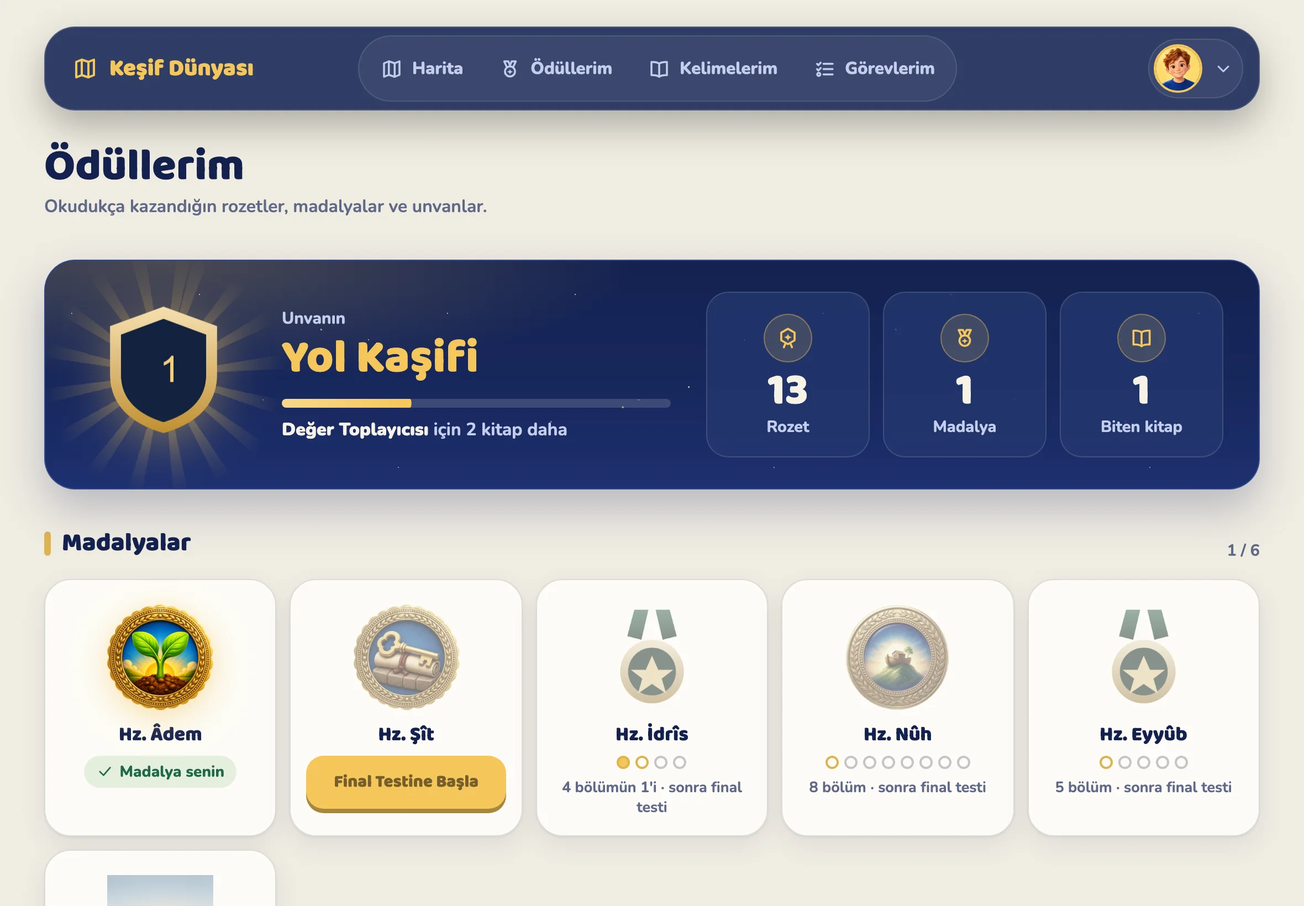
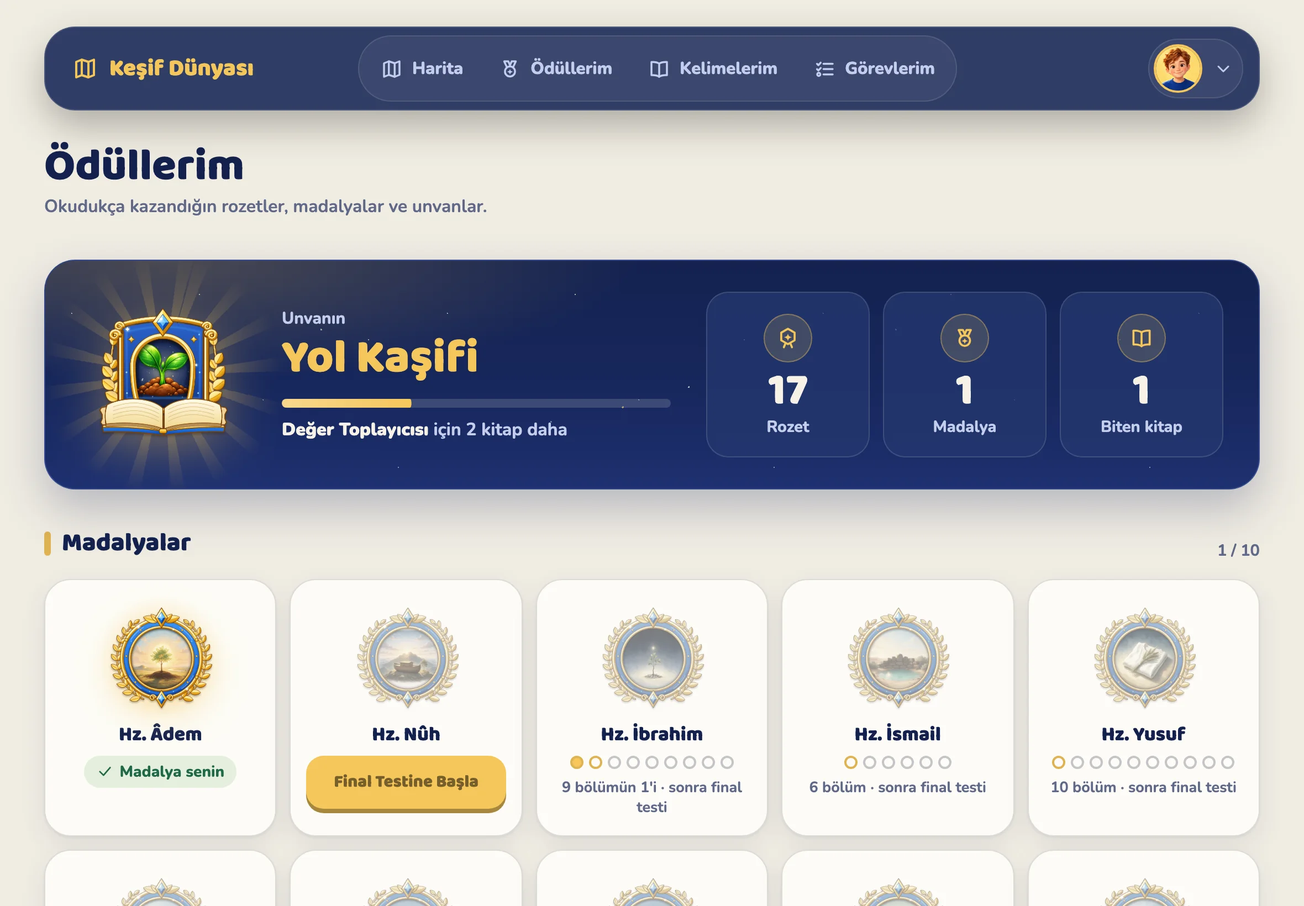
Tanıtım sayfası yalnız yayındaki kitapları anlatır (lansman 12 kitap)
Sayılar, Kütüphane listesi, raf ve madalya görselleri ile unvan kartı
katalogSayilari.ts üzerinden yalnız published kitaplardan türer; Sâlih ve
Dâvûd yayına girince tanıtım kendiliğinden güncellenir. Şît ve İdrîs
görselleri kalktı. Yolun devamı tarih ve sayı vermeden tek notla anılır;
yeni kitapların alıcılara ek ödemesiz açıldığı paket kartında ve SSS'de
yazılı (KARAR 21 Eki 2026 — Hasan). Tanıtım ekran görüntüleri yenilendi.

diff --git a/src/components/tanitim/Kutuphane.tsx b/src/components/tanitim/Kutuphane.tsx
@@ -1,40 +1,27 @@
 import Image from "next/image";
-import { atlasRegions } from "../../data/atlasCatalog";
-import { KATALOG_SAYILARI } from "../../data/katalogSayilari";
+import { KATALOG_SAYILARI, YAYINDAKI_GRUPLAR, YOLUN_DEVAMI, yayindakilerdenSec } from "../../data/katalogSayilari";
 import { kitapKapagi } from "../../lib/varlikYollari";
+import { Ikon } from "../ui/Ikon";
 import { Belir, SiraliBelir, SiraliOge } from "./hareket/Belir";
 import hareket from "./hareket/hareket.module.css";
 import { BolumBasligi, Kap } from "./ortak";
 import styles from "./tanitim.module.css";
 
 /**
- * Kitap listesi elle yazılmaz; `atlasCatalog.ts`'ten okunur. Arayüzde
- * bölgeler gösterilmediği için (PROJE-MODELI 3.10.1) burada da bölge adı yok;
- * velinin anlayacağı üç grup kullanılır.
+ * Kitap listesi elle yazılmaz; yalnız yayındaki kitaplar `katalogSayilari.ts`
+ * üzerinden okunur (REVİZE 21 Eki 2026 — lansman 12 kitap).
  *
- * Raftaki kapaklar: kapak görseli hazır olan kitaplar. Yeni kapak geldikçe
- * `RAF` listesine eklenir.
+ * Raf: kapak tasarımına değil kitaba göre seçilir (KARAR 21 Eki 2026 — Hasan;
+ * kapaklar sonra aynı adla yenilenir). İlk insan Hz. Âdem, ulü'l-azm
+ * peygamberlerden Hz. Nûh, Hz. İbrahim, Hz. Musa, Hz. Îsâ ve çocukların en
+ * çok tanıdığı kıssalardan Hz. Yusuf, Hz. Süleyman. Listeden yayında
+ * olmayan çıkar, yerine yayındaki başka kitap girer; raf katalog sırasıyla dizilir.
  */
-const RAF = ["adem", "sit", "idris", "nuh", "hud", "salih", "musa"];
-
-const GRUPLAR = [
-  { ad: "Peygamberler", bolgeler: ["ilk-izler", "bereketli-aile", "sabir-cesaret", "hikmet-saraylari", "umut-isiklari"] },
-  { ad: "Sevgili Peygamberimiz Hz. Muhammed (s.a.v.)", bolgeler: ["rahmet-yolculugu"] },
-  { ad: "Dört Büyük Halife", bolgeler: ["dort-dost"] },
-];
+const RAF = ["adem", "nuh", "ibrahim", "yusuf", "musa", "suleyman", "isa"];
 
 export function Kutuphane() {
-  const tumKitaplar = atlasRegions.flatMap((bolge) => bolge.books);
-  const raf = RAF.map((anahtar) => tumKitaplar.find((kitap) => kitap.key === anahtar)).filter(
-    (kitap) => kitap !== undefined,
-  );
-  const gruplar = GRUPLAR.map((grup) => ({
-    ad: grup.ad,
-    kitaplar: atlasRegions
-      .filter((bolge) => grup.bolgeler.includes(bolge.id))
-      .flatMap((bolge) => bolge.books)
-      .sort((a, b) => a.order - b.order),
-  }));
+  const raf = yayindakilerdenSec(RAF, RAF.length).sort((a, b) => a.order - b.order);
+  const tekGrup = YAYINDAKI_GRUPLAR.length === 1;
 
   return (
     <section id="kutuphane" aria-labelledby="kutuphane-baslik" className="tema-veli scroll-mt-16 bg-zemin py-20 lg:py-28">
@@ -43,7 +30,7 @@ export function Kutuphane() {
           id="kutuphane-baslik"
           ust="Kütüphane"
           baslik={`${KATALOG_SAYILARI.kitap} kitap, ${KATALOG_SAYILARI.bolum} bölüm, tek bir yolculuk`}
-          aciklama="Hz. Âdem'den başlayan yol, Sevgili Peygamberimiz'in hayatı ve Dört Büyük Halife ile tamamlanır. Kitaplar tarih sırasıyla tek bir rotada dizilir; çocuk dilediği kitaptan başlayabilir."
+          aciklama="Yolculuk Hz. Âdem'le başlar; kitaplar tarih sırasıyla tek bir rotada dizilir. Çocuk dilediği kitaptan başlayabilir."
         />
       </Kap>
 
@@ -86,13 +73,13 @@ export function Kutuphane() {
             aralik={0.15}
             oran={0.1}
           >
-            {gruplar.map((grup, i) => (
-              <SiraliOge key={grup.ad} className={i === 0 ? "lg:col-span-6" : "lg:col-span-3"}>
+            {YAYINDAKI_GRUPLAR.map((grup, i) => (
+              <SiraliOge key={grup.ad} className={tekGrup ? "lg:col-span-12" : i === 0 ? "lg:col-span-6" : "lg:col-span-3"}>
                 <h3 className="border-b border-cizgi pb-3 font-baslik text-[1.05rem] font-bold text-murekkep">
                   {grup.ad}
                   <span className="ml-2 font-semibold text-vurgu">{grup.kitaplar.length} kitap</span>
                 </h3>
-                <ol className={`mt-4 gap-x-8 ${i === 0 ? "sm:columns-2" : ""}`}>
+                <ol className={`mt-4 gap-x-8 ${tekGrup ? "sm:columns-2 lg:columns-3" : i === 0 ? "sm:columns-2" : ""}`}>
                   {grup.kitaplar.map((kitap) => (
                     <li
                       key={kitap.key}
@@ -109,6 +96,19 @@ export function Kutuphane() {
                 </ol>
               </SiraliOge>
             ))}
+            {/* Yolun devamı: tarih ve sayı vermez; bütün kitaplar yayına girince kendiliğinden kalkar. */}
+            {YOLUN_DEVAMI ? (
+              <SiraliOge className="flex gap-4 rounded-2xl bg-zemin p-5 sm:p-6 lg:col-span-12">
+                {/* Telefonda ikon gizlenir: metin dar bir sütuna sıkışmasın. */}
+                <span className="hidden h-11 w-11 shrink-0 items-center justify-center rounded-full bg-vurgu-yumusak text-vurgu sm:flex">
+                  <Ikon ad="kitap" boyut={22} />
+                </span>
+                <div>
+                  <p className="font-baslik text-[1.05rem] font-bold text-murekkep">Yolun devamı hazırlanıyor</p>
+                  <p className="mt-1 font-govde leading-relaxed text-murekkep-soluk">{YOLUN_DEVAMI}</p>
+                </div>
+              </SiraliOge>
+            ) : null}
           </SiraliBelir>
         </Belir>
       </Kap>

diff --git a/src/data/katalogSayilari.ts b/src/data/katalogSayilari.ts
@@ -1,21 +1,96 @@
-import { atlasRegions } from "./atlasCatalog";
+import { atlasRegions, type AtlasCatalogBook } from "./atlasCatalog";
 
 /**
- * Tanıtım sayfasındaki sayılar (kitap, bölüm, rozet, madalya) elle yazılmaz;
- * katalogdan türetilir. Katalog belgesi değişirse (Hasan onayıyla) tanıtım
- * metinleri kendiliğinden güncellenir.
+ * Tanıtım sayfasının katalog verisi: sayılar (kitap, bölüm, rozet, madalya),
+ * raf/ödül görsellerinin seçimi ve "yolun devamı" notu. Hiçbiri elle yazılmaz.
  *
- * Tanıtım sayfası sitenin TAM hâlini anlatır (KARAR 15 Eki 2026 — Hasan: site
- * bütün kitaplar bitmeden yayına açılmayacak); bu yüzden yayın durumuna
- * (`availability`) bakılmaz.
+ * Tanıtım yalnız YAYINDAKİ kitapları anlatır (REVİZE 21 Eki 2026 — Hasan:
+ * lansman 12 kitapla; 15 Eki'deki "sitenin tam hâli anlatılır" kararı kalktı).
+ * Bir kitap `atlasCatalog.ts`'te `published` olunca tanıtım kendiliğinden
+ * güncellenir; `hidden` ve `preparing` kitaplar sayılmaz, görseli seçilmez.
+ *
+ * `derive.ts:yayindakiKitaplar()` burada kullanılmaz: o, bütün bölüm
+ * metinleriyle `books.ts`'i içeri alır; bu dosya ise `paketler.ts` üzerinden
+ * yönetim ekranının tarayıcı paketine de giriyor. Katalogdaki bölüm sayısı
+ * içerikle aynı tutulur (CLAUDE.md "Yeni kitap eklerken" listesi).
  */
-const tumKitaplar = atlasRegions.flatMap((bolge) => bolge.books);
+export const YAYINDAKI_KITAPLAR: AtlasCatalogBook[] = atlasRegions
+  .flatMap((bolge) => bolge.books)
+  .filter((kitap) => kitap.availability === "published")
+  .sort((a, b) => a.order - b.order);
+
+const bolumSayisi = YAYINDAKI_KITAPLAR.reduce((toplam, kitap) => toplam + kitap.chapterCount, 0);
 
 export const KATALOG_SAYILARI = {
-  kitap: tumKitaplar.length,
-  bolum: tumKitaplar.reduce((toplam, kitap) => toplam + kitap.chapterCount, 0),
+  kitap: YAYINDAKI_KITAPLAR.length,
+  bolum: bolumSayisi,
   /** Her bölümün kendi rozeti vardır. */
-  rozet: tumKitaplar.reduce((toplam, kitap) => toplam + kitap.chapterCount, 0),
+  rozet: bolumSayisi,
   /** Her kitabın kendi madalyası vardır. */
-  madalya: tumKitaplar.length,
+  madalya: YAYINDAKI_KITAPLAR.length,
 };
+
+/**
+ * Tercih listesindeki kitaplardan yalnız yayında olanları, tercih sırasıyla
+ * verir; eksik kalırsa yayındaki diğer kitaplarla `adet`e tamamlar. Gizlenen
+ * ya da henüz yayında olmayan bir kitabın görseli böylece tanıtıma giremez.
+ */
+export function yayindakilerdenSec(tercih: string[], adet: number): AtlasCatalogBook[] {
+  const secilen = tercih.flatMap((anahtar) => YAYINDAKI_KITAPLAR.filter((kitap) => kitap.key === anahtar));
+  const diger = YAYINDAKI_KITAPLAR.filter((kitap) => !secilen.includes(kitap));
+  return [...secilen, ...diger].slice(0, adet);
+}
+
+/**
+ * Velinin anlayacağı üç grup. Arayüzde bölgeler gösterilmediği için
+ * (PROJE-MODELI 3.10.1) tanıtımda da bölge adı yok. `devami`: grupta yayında
+ * olmayan kitap varken "yolun devamı" notunda kullanılan ad.
+ */
+const GRUPLAR = [
+  {
+    ad: "Peygamberler",
+    devami: "diğer peygamberlerin kıssaları",
+    bolgeler: ["ilk-izler", "bereketli-aile", "sabir-cesaret", "hikmet-saraylari", "umut-isiklari"],
+  },
+  {
+    ad: "Sevgili Peygamberimiz Hz. Muhammed (s.a.v.)",
+    devami: "Sevgili Peygamberimiz Hz. Muhammed'in (s.a.v.) hayatı",
+    bolgeler: ["rahmet-yolculugu"],
+  },
+  { ad: "Dört Büyük Halife", devami: "Dört Büyük Halife kitapları", bolgeler: ["dort-dost"] },
+];
+
+const gruplar = GRUPLAR.map((grup) => {
+  const kitaplar = atlasRegions
+    .filter((bolge) => grup.bolgeler.includes(bolge.id))
+    .flatMap((bolge) => bolge.books)
+    .sort((a, b) => a.order - b.order);
+  return {
+    ad: grup.ad,
+    devami: grup.devami,
+    yayindakiler: kitaplar.filter((kitap) => kitap.availability === "published"),
+    bekleyenVar: kitaplar.some((kitap) => kitap.availability !== "published"),
+  };
+});
+
+/** Kütüphane listesi: yalnız yayında kitabı olan gruplar, katalog sırasıyla. */
+export const YAYINDAKI_GRUPLAR = gruplar
+  .filter((grup) => grup.yayindakiler.length > 0)
+  .map((grup) => ({ ad: grup.ad, kitaplar: grup.yayindakiler }));
+
+function listele(parcalar: string[]) {
+  if (parcalar.length < 2) return parcalar.join("");
+  return `${parcalar.slice(0, -1).join(", ")} ve ${parcalar[parcalar.length - 1]}`;
+}
+
+/**
+ * "Yolun devamı" cümlesi — Kütüphane notu ve SSS aynı metni kullanır. Tarih
+ * ve sayı vermez (çocuk ana ekranındaki "Yolun devamı hazırlanıyor" kartıyla
+ * aynı dil). Bütün kitaplar yayına girince `null` olur ve not kalkar.
+ */
+const hazirlananlar = gruplar.filter((grup) => grup.bekleyenVar).map((grup) => grup.devami);
+const devamListesi = listele(hazirlananlar);
+export const YOLUN_DEVAMI =
+  hazirlananlar.length > 0
+    ? `${devamListesi.charAt(0).toLocaleUpperCase("tr-TR")}${devamListesi.slice(1)} üzerinde çalışıyoruz. Her kitap kaynak denetiminden geçtikten sonra yayına girer.`
+    : null;

diff --git a/src/components/tanitim/Oduller.tsx b/src/components/tanitim/Oduller.tsx
@@ -1,6 +1,6 @@
 import Image, { getImageProps } from "next/image";
 import type { CSSProperties, ReactNode } from "react";
-import { KATALOG_SAYILARI } from "../../data/katalogSayilari";
+import { KATALOG_SAYILARI, yayindakilerdenSec } from "../../data/katalogSayilari";
 import { UNVAN_ESIKLERI, unvanAnahtari } from "../../lib/derive";
 import { madalyaGorseli, rozetGorseli, unvanGorseli } from "../../lib/varlikYollari";
 import { SiraliBelir, SiraliOge } from "./hareket/Belir";
@@ -23,10 +23,18 @@ function ParlayanGorsel({ src, boyut, className = "" }: { src: string; boyut: st
   );
 }
 
-/** Terminoloji sabit: yalnız ROZET · MADALYA · UNVAN (PROJE-MODELI Bölüm 2). */
+/** Madalya kartı: ortadaki (vurgulu) Hz. Âdem; yayında olmayan kitap seçilmez. */
+const MADALYA_VITRINI = ["nuh", "adem", "ibrahim"];
+
+/**
+ * Terminoloji sabit: yalnız ROZET · MADALYA · UNVAN (PROJE-MODELI Bölüm 2).
+ * Unvan kartı yalnız yayındaki kitaplarla kazanılabilen unvanları anlatır;
+ * daha fazla kitap isteyen unvanlar, kitaplar yayına girdikçe kendiliğinden eklenir.
+ */
 export function Oduller() {
-  const ilkUnvan = UNVAN_ESIKLERI[0].unvan;
-  const sonUnvan = UNVAN_ESIKLERI[UNVAN_ESIKLERI.length - 1].unvan;
+  const kazanilabilir = UNVAN_ESIKLERI.filter((esik) => esik.kitap <= KATALOG_SAYILARI.kitap);
+  const ilkUnvan = kazanilabilir[0].unvan;
+  const sonUnvan = kazanilabilir[kazanilabilir.length - 1].unvan;
 
   const kartlar: { ad: string; sayi: string; metin: string; gorsel: ReactNode }[] = [
     {
@@ -55,13 +63,13 @@ export function Oduller() {
         "Kitap ve Büyük Final Testi bitince kazanılır; her kitabın madalyası farklıdır. Testteki doğru sayısı madalyanın şartı değildir.",
       gorsel: (
         <div className="relative flex h-full items-center justify-center gap-2">
-          {["sit", "adem", "nuh"].map((kitap, i) => (
+          {yayindakilerdenSec(MADALYA_VITRINI, MADALYA_VITRINI.length).map((kitap, i) => (
             <div
-              key={kitap}
+              key={kitap.key}
               className={`${hareket.sallan} ${i === 1 ? "w-[42%]" : "w-[30%] opacity-90"}`}
               style={{ "--gecikme": `${-i * 1.7}s` } as CSSProperties}
             >
-              <ParlayanGorsel src={madalyaGorseli(kitap)} boyut="150px" />
+              <ParlayanGorsel src={madalyaGorseli(kitap.key)} boyut="150px" />
             </div>
           ))}
         </div>
@@ -69,17 +77,17 @@ export function Oduller() {
     },
     {
       ad: "Unvan",
-      sayi: `${UNVAN_ESIKLERI.length} unvan`,
-      metin: `Puanla değil, okunan kitap sayısıyla yükselir. “${ilkUnvan}” ile başlar, “${sonUnvan}” ile tamamlanır.`,
+      sayi: `${kazanilabilir.length} unvan`,
+      metin: `Puanla değil, okunan kitap sayısıyla yükselir. “${ilkUnvan}” ile başlar; yayındaki kitapların hepsini bitiren çocuk “${sonUnvan}” olur.`,
       gorsel: (
         <div className="relative flex h-full items-end justify-center gap-1">
-          {[1, 4, 8].map((sira, i) => (
+          {kazanilabilir.slice(-3).map((esik, i) => (
             <div
-              key={sira}
+              key={esik.unvan}
               className={`${hareket.unvanBasamagi} ${i === 2 ? "w-[40%]" : i === 1 ? "w-[33%]" : "w-[26%]"}`}
               style={{ "--yukselis": `${-6 - i * 5}px`, "--gecikme": `${i * 70}ms` } as CSSProperties}
             >
-              <ParlayanGorsel src={unvanGorseli(unvanAnahtari(UNVAN_ESIKLERI[sira].unvan))} boyut="150px" />
+              <ParlayanGorsel src={unvanGorseli(unvanAnahtari(esik.unvan))} boyut="150px" />
             </div>
           ))}
         </div>

diff --git a/src/components/tanitim/Sss.tsx b/src/components/tanitim/Sss.tsx
@@ -1,7 +1,7 @@
 import Link from "next/link";
 import type { ReactNode } from "react";
 import { IPTAL_IADE } from "../../data/yasal";
-import { KATALOG_SAYILARI } from "../../data/katalogSayilari";
+import { KATALOG_SAYILARI, YOLUN_DEVAMI } from "../../data/katalogSayilari";
 import { MARKA } from "../../data/marka";
 import { SiraliBelir, SiraliOge } from "./hareket/Belir";
 import hareket from "./hareket/hareket.module.css";
@@ -35,8 +35,17 @@ const SORULAR: { soru: string; cevap: ReactNode }[] = [
   },
   {
     soru: "Bir bölüm ne kadar sürer?",
-    cevap: `Bölümler kısa tutuldu; çoğu tek oturumda, yaklaşık 10–15 dakikada okunur. ${KATALOG_SAYILARI.kitap} kitabın tamamında ${KATALOG_SAYILARI.bolum} bölüm var. Günlük hedef ya da seri olmadığı için çocuk kendi hızında ilerler.`,
+    cevap: `Bölümler kısa tutuldu; çoğu tek oturumda, yaklaşık 10–15 dakikada okunur. Yayındaki ${KATALOG_SAYILARI.kitap} kitapta toplam ${KATALOG_SAYILARI.bolum} bölüm var. Günlük hedef ya da seri olmadığı için çocuk kendi hızında ilerler.`,
   },
+  // Bütün kitaplar yayına girince soru kendiliğinden kalkar (YOLUN_DEVAMI null olur).
+  ...(YOLUN_DEVAMI
+    ? [
+        {
+          soru: "Yeni kitaplar eklenecek mi?",
+          cevap: `Evet. ${YOLUN_DEVAMI} Bu yüzden tarih vermiyoruz. Yayına giren her kitap, hesabınızda ek ödeme olmadan açılır.`,
+        },
+      ]
+    : []),
   {
     soru: "Abonelik mi, tek ödeme mi?",
     cevap:

diff --git a/app/(tanitim)/page.tsx b/app/(tanitim)/page.tsx
@@ -13,7 +13,7 @@ import { VeliPaneli } from "../../src/components/tanitim/VeliPaneli";
 import { KATALOG_SAYILARI } from "../../src/data/katalogSayilari";
 import { MARKA } from "../../src/data/marka";
 
-const aciklama = `Peygamberlerin ve Dört Büyük Halife'nin hayatı; ${MARKA.hedefYas} yaş için ${KATALOG_SAYILARI.kitap} kitap ve ${KATALOG_SAYILARI.bolum} sesli bölümde. Reklamsız, puan baskısı olmadan, veli paneliyle.`;
+const aciklama = `Çocuklar için sesli ve etkileşimli peygamber kıssaları: ${MARKA.hedefYas} yaş için ${KATALOG_SAYILARI.kitap} kitap, ${KATALOG_SAYILARI.bolum} sesli bölüm. Reklamsız, puan baskısı olmadan, veli paneliyle.`;
 
 export const metadata: Metadata = {
   title: `${MARKA.ad} | Çocuklar için sesli ve etkileşimli peygamber kıssaları`,
@@ -27,7 +27,8 @@ export const metadata: Metadata = {
 };
 
 /**
- * Tanıtım sayfası (KARAR 15 Eki 2026 — Hasan: sitenin tam hâli anlatılır).
+ * Tanıtım sayfası. Yalnız yayındaki kitapları anlatır (REVİZE 21 Eki 2026 —
+ * Hasan: lansman 12 kitapla; sayılar ve görseller `katalogSayilari.ts`'ten).
  *
  * Akış: gece (çocuğun dünyası) → şafak → krem (velinin paneli) → akşam.
  * Bölüm sırası satış akışını izler: vaat → nasıl çalışır → öne çıkanlar →

diff --git a/src/components/tanitim/Hero.tsx b/src/components/tanitim/Hero.tsx
@@ -80,9 +80,9 @@ export function Hero() {
               className={`${styles.giris} mt-6 max-w-xl text-pretty font-govde text-lg leading-relaxed text-murekkep-soluk sm:text-xl`}
               style={sira(4)}
             >
-              Peygamberlerin ve Dört Büyük Halife&apos;nin hayatı; {KATALOG_SAYILARI.kitap} kitapta, her biri sesli
-              anlatımlı {KATALOG_SAYILARI.bolum} bölümde. Çocuğunuz dinler, okur ve karar verir; siz yolculuğunu veli
-              panelinden izlersiniz.
+              Hz. Âdem&apos;le başlayan {KATALOG_SAYILARI.kitap} kitap; her biri sesli anlatımlı{" "}
+              {KATALOG_SAYILARI.bolum} bölüm. Çocuğunuz dinler, okur ve karar verir; siz yolculuğunu veli panelinden
+              izlersiniz.
             </p>
 
             <div className={`${styles.giris} mt-9 flex flex-col gap-3 sm:flex-row`} style={sira(5)}>

diff --git a/src/data/paketler.ts b/src/data/paketler.ts
@@ -65,7 +65,9 @@ export const PAKETLER: Paket[] = [
 
 /** Bütün paketlerde ortak olanlar — kartlarda aynı liste gösterilir. */
 export const PAKET_ORTAK_OZELLIKLER = [
-  `${KATALOG_SAYILARI.kitap} kitabın tamamı, ${KATALOG_SAYILARI.bolum} bölüm`,
+  `Yayındaki ${KATALOG_SAYILARI.kitap} kitap, ${KATALOG_SAYILARI.bolum} bölüm`,
+  /** KARAR 21 Eki 2026 (Hasan): yayına giren yeni kitap mevcut alıcılara ek ödemesiz açılır. */
+  "Yeni eklenen kitaplar dahil",
   "Her bölümde sesli anlatım",
   "Rozet, madalya ve unvanlar",
   "Veli paneli ve gelişim raporu",

diff --git a/PROJE-MODELI.md b/PROJE-MODELI.md
@@ -2022,7 +2022,7 @@ göstermiyordu: RLS açıktı, kurallar fazla genişti.
 | **6.1** | **İçerik ve Etkileşim Revizyonu (PLANLANDI — Hasan onayı olmadan BAŞLAMAZ):** (a) okuma akışı revizyonu: iki parçalı hikâye + karar noktasında "Sen Olsaydın" + "Seçimini Karşılaştır" + seçimin oturum içinde tutulması (4.1/16); (b) koşullu "Bugüne Taşı" + "Görevi Listeme Ekle / Şimdilik Değil" eylemleri; (c) görev veri altyapısı: `profile_tasks` tablosu + migration + RLS (7.3) — **ekrandan önce altyapı**; (d) çocuk "Görevlerim" ekranı (5.1); (e) veli ana sayfadaki güncel görev alanının yeni görev durumundan beslenmesi; (f) 8 bölümlük yeni Hz. Âdem içeriğinin `books.ts`'e aktarımı | Yeni bölüm akışı + kalıcı görev takibi çalışıyor |
 | **6.2** | **Kaydırmalı Okuma Akışı (ONAY — 26 Temmuz 2026):** (a) karakter bütçesiz akış modeli (`src/components/reader/akis.ts`); (b) `AtlasScrollReader` — tek sayfa kaydırma, satır içi görsel/sözlükçe, "Sen Olsaydın" kapısı, akış içi butonlar; (c) alt gezinme çubuğunun yerine üst ilerleme çubuğu + durak göstergesi (scroll-spy); (d) ~~otomatik "kaldığın yer"~~ — **28 Tem 2026'da kaldırıldı** (kaydırma konumu okunan yeri güvenilir biçimde göstermiyor); (e) Hz. Âdem B1–B8 için görsel yerlerinin açılması + `ICERIK-GORSEL-SICILI.md`. Sayfalı okuyucu (`AtlasReader` + `sayfalar.ts` + sayfa bileşenleri + iki tasarım önizlemesi) yenisi üretimde bir hafta çalıştıktan sonra, **30 Tem 2026'da silindi**; `BookDiscovery` tipleri de hiç kullanılmadığı için kaldırıldı | Bölüm kesintisiz kaydırılarak okunuyor |
 | **7** | Güvenlik/hesap akışı (Bölüm 8). **19 Eki 2026:** 1–2. adım (açık kuralların kapanması, "Kim okuyor?", profil şifresi, veli kapısı, eşleme kodu, kapalı fotoğraf kovası — 3.11) uygulandı. **20 Eki 2026:** 3. adım (şifre belirleme bağlantısı, Şifremi unuttum, çift bildirim koruması, ödeme sisteminden bağımsız çekirdek, elden satış için `/yonetim`) uygulandı; canlı Shopier denemesi ve Supabase/Resend panel ayarları bekliyor | Aktivasyon bağlantısı + PIN |
-| **8** | Landing page'in gerçek özelliklerle güncellenmesi. **Başladı (15 Eki 2026):** eski sayfa silindi, yenisi `app/(tanitim)/` altında (bileşenler `src/components/tanitim/`). **KARAR (Hasan):** site bütün kitaplar ve sesli anlatımlar bitmeden yayına açılmayacağı için tanıtım sitenin TAM hâlini anlatır — kitap/bölüm sayıları yayın durumuna bakmadan katalogdan (`src/data/katalogSayilari.ts`), sesli anlatım öne çıkan özelliktir. **REVİZE 21 Eki 2026 (Hasan): lansman 12 kitapla** (liste: katalog belgesi §11.1); tanıtım sayfasının 35 kitap / 216 bölüm anlatımı bu karara göre yeniden yazılacak (bekliyor). Ürün Bahar Yayıncılık'ın değil, bağımsız bir ürün olarak sunulur. Marka adı ve logo geçicidir (`src/data/marka.ts`, `src/components/marka/Logo.tsx`). Paket modeli öneridir (tek ödeme, süre sınırı yok; 1 / 3 / 5 profil — `src/data/paketler.ts`). Yasal sayfalar (KVKK, gizlilik, çerez, kullanım, ön bilgilendirme, mesafeli satış, iptal-iade, iletişim) taslaktır; satıcı bilgileri `src/data/yasal/satici.ts`'te yer tutucudur. Ürün ekran görüntüleri `npm run tanitim-gorselleri` ile `/tasarim/*` önizlemelerinden üretilir. **Hareket katmanı (KARAR 16 Eki 2026 — Hasan):** yalnız Motion + CSS (`src/components/tanitim/hareket/`); Işıl bölüm bölüm tek karakter gibi rehberlik eder (hero'da uçarak gelir → altın yolda kaydırmayı izler → şafakta dinlenmeye gider → kapanışta döner), dinî içeriğin (İlkeler, Hz. Muhammed / halife listesi) yanında Işıl yoktur; fiyat kartlarına yalnız giriş ve düğme tepkisi eklenir; ses efekti yok; "hareketi azalt"ta süsler durur | Pazarlama yüzü güncel |
+| **8** | Landing page'in gerçek özelliklerle güncellenmesi. **Başladı (15 Eki 2026):** eski sayfa silindi, yenisi `app/(tanitim)/` altında (bileşenler `src/components/tanitim/`). ~~KARAR (Hasan, 15 Eki): tanıtım sitenin TAM hâlini anlatır (35 kitap / 216 bölüm)~~ — **REVİZE 21 Eki 2026 (Hasan): lansman 12 kitapla** (liste: katalog belgesi §11.1); **tanıtım yalnız yayındaki kitapları anlatır (uygulandı 21 Eki 2026).** Sayılar, Kütüphane listesi ve unvan kartı `src/data/katalogSayilari.ts` üzerinden `published` kitaplardan türer (`hidden`/`preparing` sayılmaz); kitap yayına girince tanıtım kendiliğinden güncellenir. Raf ve madalya görselleri kapak tasarımına değil kitaba göre seçilen tercih listesinden, yalnız yayındakilerle dolar. Unvan kartı yalnız yayındaki kitaplarla kazanılabilen unvanları anlatır. Yolun devamı Kütüphane'de ve SSS'de tek notla anılır; tarih ve sayı verilmez (ana ekrandaki "Yolun devamı hazırlanıyor" kartıyla aynı dil). **KARAR 21 Eki 2026 (Hasan):** yayına giren yeni kitap mevcut alıcılara ek ödemesiz açılır; tanıtımda ve paket kartında yazılır (sistem de böyle çalışır: `parent_subscriptions`'ta kitap/süre sınırı yok). Sesli anlatım öne çıkan özellik olarak kalır (lansmandan önce gerçek kayıtla tamamlanır). Ürün Bahar Yayıncılık'ın değil, bağımsız bir ürün olarak sunulur. Marka adı ve logo geçicidir (`src/data/marka.ts`, `src/components/marka/Logo.tsx`). Paket modeli öneridir (tek ödeme, süre sınırı yok; 1 / 3 / 5 profil — `src/data/paketler.ts`). Yasal sayfalar (KVKK, gizlilik, çerez, kullanım, ön bilgilendirme, mesafeli satış, iptal-iade, iletişim) taslaktır; satıcı bilgileri `src/data/yasal/satici.ts`'te yer tutucudur. Ürün ekran görüntüleri `npm run tanitim-gorselleri` ile `/tasarim/*` önizlemelerinden üretilir. **Hareket katmanı (KARAR 16 Eki 2026 — Hasan):** yalnız Motion + CSS (`src/components/tanitim/hareket/`); Işıl bölüm bölüm tek karakter gibi rehberlik eder (hero'da uçarak gelir → altın yolda kaydırmayı izler → şafakta dinlenmeye gider → kapanışta döner), dinî içeriğin (İlkeler, Hz. Muhammed / halife listesi) yanında Işıl yoktur; fiyat kartlarına yalnız giriş ve düğme tepkisi eklenir; ses efekti yok; "hareketi azalt"ta süsler durur | Pazarlama yüzü güncel |
 
 **Çocuk arayüzü sadeleştirme fazları (Ekim 2026 — bkz. 3.10).** Harfler 11 Ekim
 2026 analiz raporundaki adlandırmadır; her faz kendi başına yayına alınabilir.
